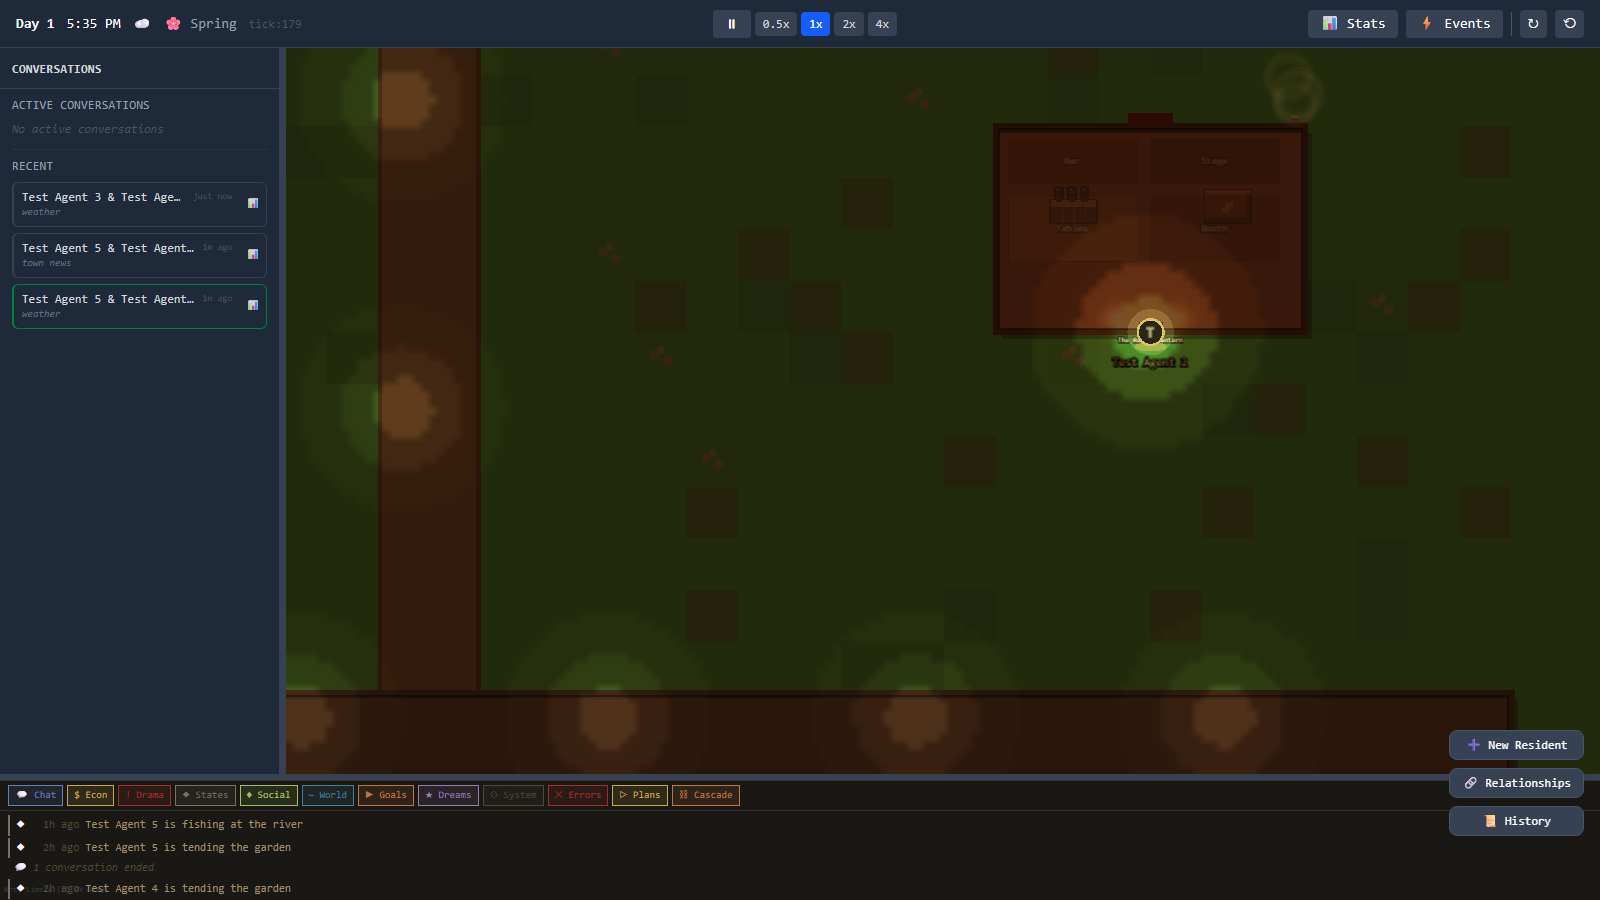
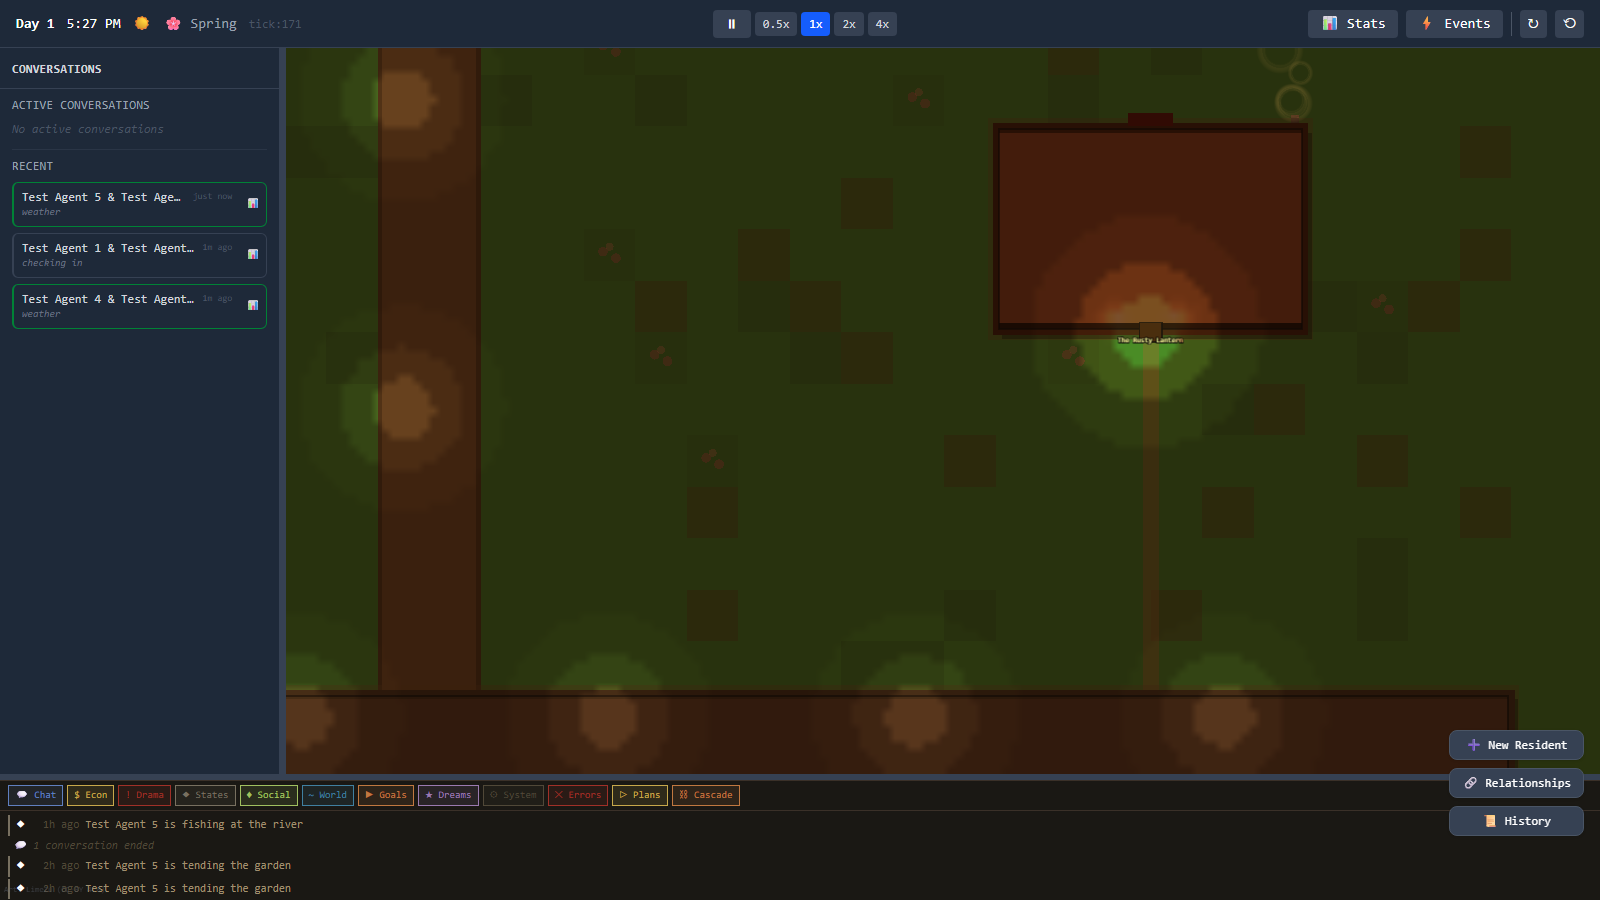
polish(r21): warm-lit windows on south building facades
Two window apertures (dark frame + warm amber fill) on each building's
south wall band break the solid facade so structures read as inhabited
(fresh-eyes audit round 3, consensus finding). Windows skip positions
that would collide with a south-facing door; narrow buildings get one
centered window.

diff --git a/src/components/canvas/BuildingRenderer.ts b/src/components/canvas/BuildingRenderer.ts
@@ -278,6 +278,17 @@ export class BuildingRenderer {
     const doorDef = DOOR_STYLE[loc.type] ?? { color: TERRAIN_COLORS.door, w: 12, h: 8 };
     const ex = loc.entry_point.x;
     const ey = loc.entry_point.y;
+
+    // ── 5b. Windows on the south facade band — warm-lit apertures break the
+    // solid wall face so buildings read as inhabited (fresh-eyes audit r21).
+    // Skipped where they'd collide with a south-facing door. ──
+    const doorOnSouth = Math.abs(ey - (y + height)) < 6;
+    const windowXs = width < 70 ? [x + width / 2] : [x + width * 0.28, x + width * 0.72];
+    for (const wx of windowXs) {
+      if (doorOnSouth && Math.abs(wx - ex) < doorDef.w / 2 + 10) continue;
+      walls.rect(Math.round(wx - 5), y + height - 10, 10, 8).fill({ color: 0x1a1510 });
+      walls.rect(Math.round(wx - 4), y + height - 9, 8, 6).fill({ color: 0xd8c07a, alpha: 0.9 });
+    }
     const doorX = Math.round(ex - doorDef.w / 2);
     const doorY = Math.round(ey - doorDef.h / 2);
     walls.rect(doorX, doorY, doorDef.w, doorDef.h).fill({ color: doorDef.color });
